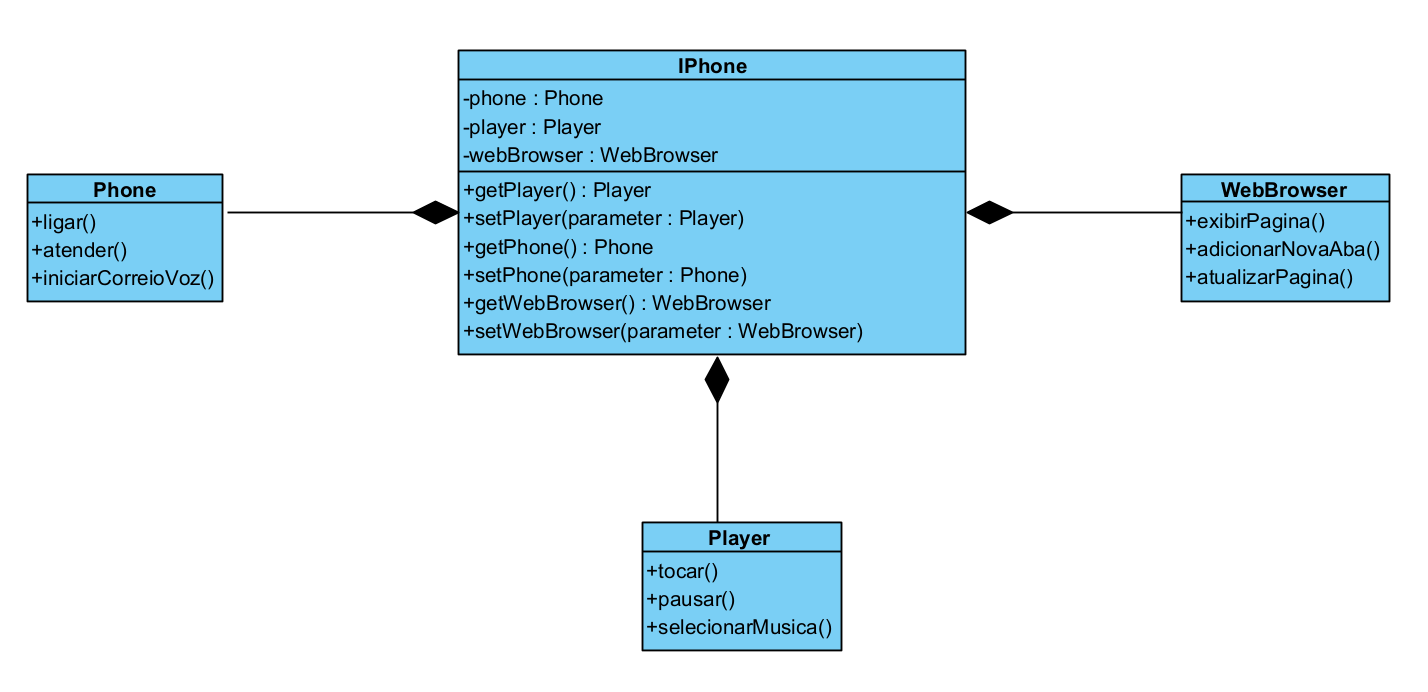
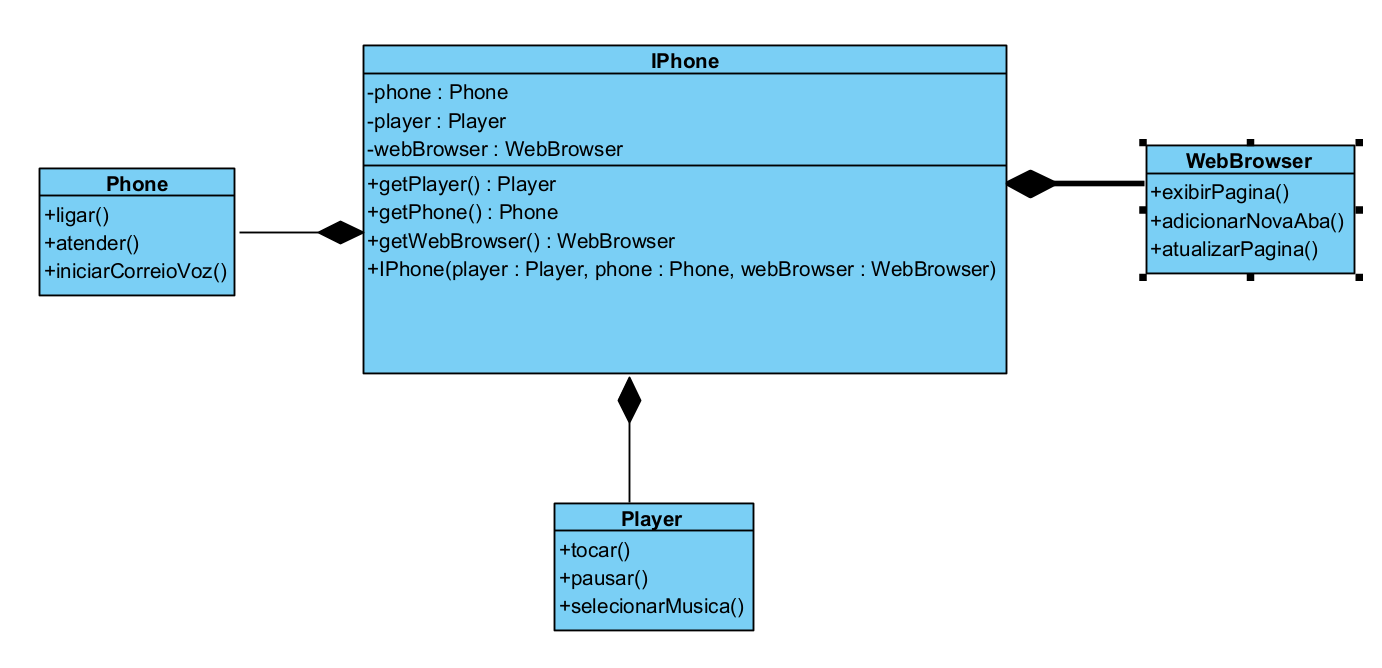
Imagem do diagrama de classes e classes java

Changed region(s): [[0.0, 0.0599, 0.9957, 0.6287], [0.3734, 0.7485, 0.5912, 0.9581]]

diff --git a/IPhone.java b/IPhone.java
@@ -1,0 +1,23 @@
+public class IPhone {
+    private Player player;
+    private Phone phone;
+    private WebBrowser WebBrowser;
+
+    public IPhone(Player player, Phone phone, WebBrowser WebBrowser) {
+        this.player = player;
+        this.phone = phone;
+        this.webBrowser = webBrowser;
+    }
+
+    public Player getPlayer() {
+        return this.player;
+    }
+
+    public Phone getPhone() {
+        return this.phone;
+    }
+
+    public WebBrowser getWebBrowser() {
+        return this.webBrowser;
+    }
+}

diff --git a/Player.java b/Player.java
@@ -1,0 +1,13 @@
+public class Player {
+    public void tocar() {
+        System.out.println("The music is playing now");
+    }
+
+    public void pausar() {
+        System.out.println("The music is paused now");
+    }
+
+    public void selecionarMusica() {
+        System.out.println("This music you chose is playing now");
+    }
+}

diff --git a/WebBrowser.java b/WebBrowser.java
@@ -1,0 +1,13 @@
+public class WebBrowser {
+    public void exibirPagina() {
+        System.out.println("The page is opened");
+    }
+
+    public void atualizarPagina() {
+        System.out.println("The page was refreshed");
+    }
+
+    public void adicionarNovaAba() {
+        System.out.println("New tab opened");
+    }
+}

diff --git a/Phone.java b/Phone.java
@@ -1,0 +1,13 @@
+public class Phone {
+    public void ligar() {
+        System.out.println("Calling...");
+    }
+
+    public void atender() {
+        System.out.println("Call accepted");
+    }
+
+    public void iniciarCorreioVoz() {
+        System.out.println("Calling voice mail");
+    }
+}

diff --git a/README.md b/README.md
@@ -1,3 +1,7 @@
 # dio-uml-challenge
 
+## Diagrama UML
 O diagrama de classes está representado na imagem "image.png"
+
+## Classes Java
+As classes java estão referenciadas em arquivos com o nome das mesmas
